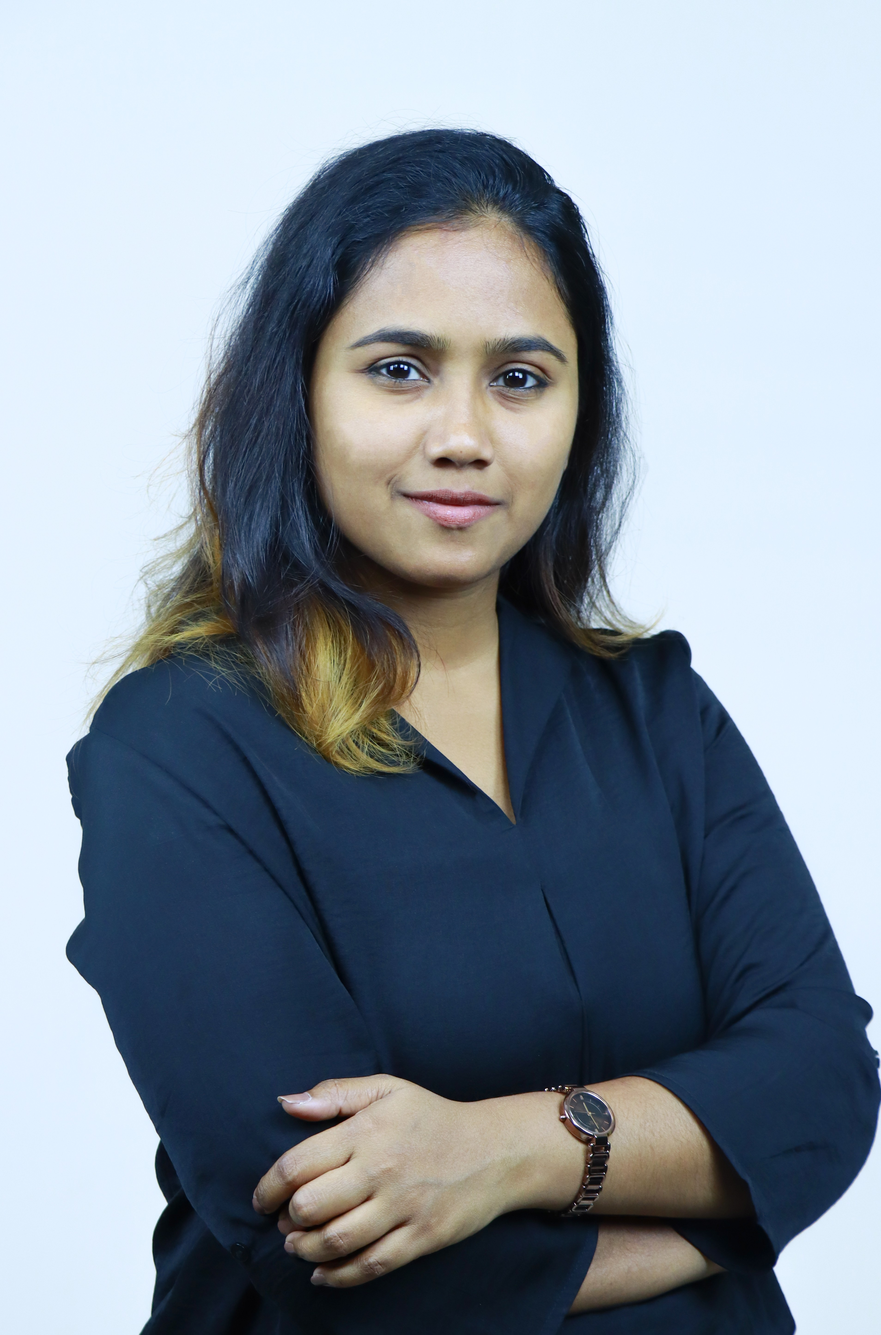
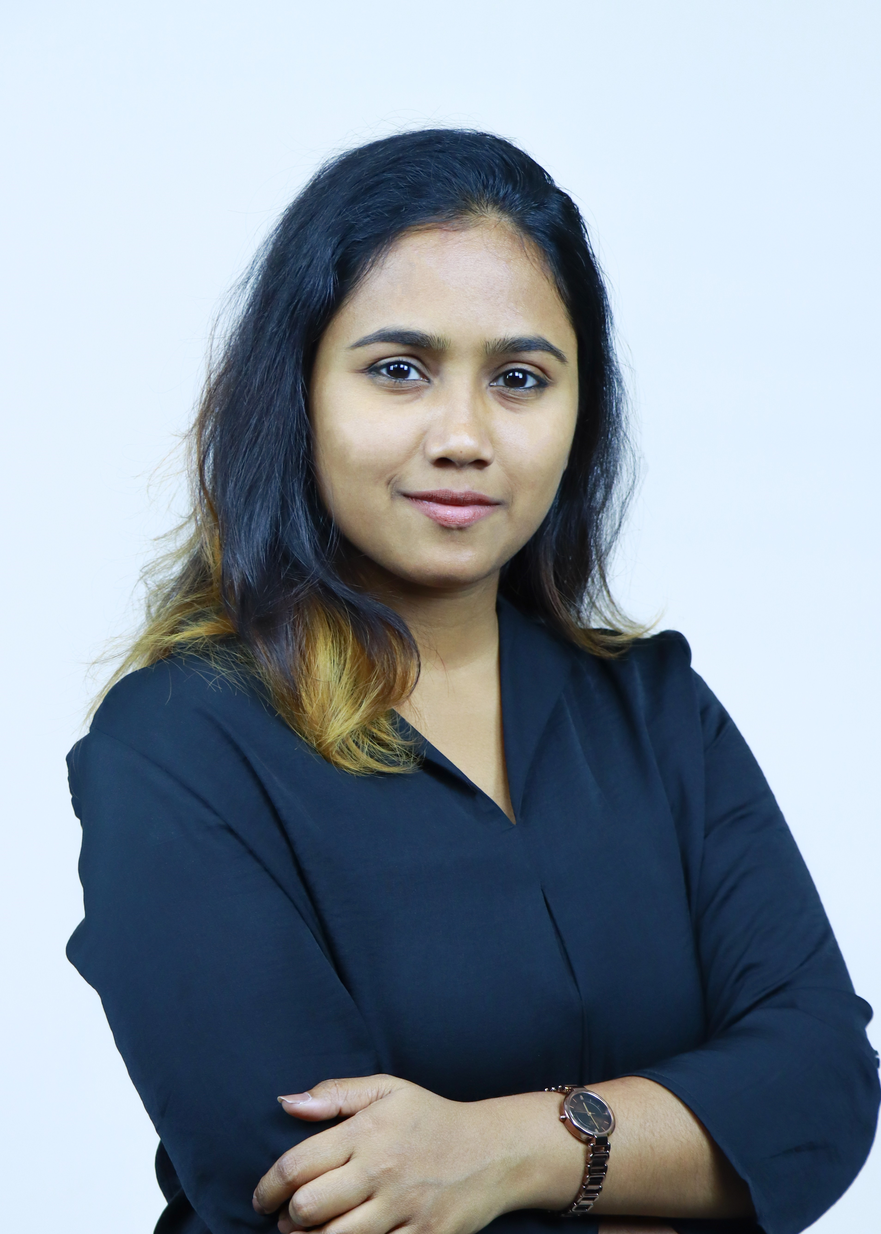
img commit

diff --git a/src/components/Advisors.jsx b/src/components/Advisors.jsx
@@ -1,8 +1,8 @@
 import React from "react";
-import { Briefcase } from "lucide-react";
+import { User } from "lucide-react";
 
 import ShefinImage from "../assets/images/shefin.jpg";
-import hashImage from "../assets/images/hashim.jpg";
+import hashImage from "../assets/images/hashim1.jpg";
 import abhiImage from "../assets/images/abhirami.jpg";
 import jinoImage from "../assets/images/jino.jpg";
 
@@ -15,34 +15,34 @@ const advisors = [
 
 const Advisors = () => {
   return (
-    <div className="py-16 bg-gradient-to-b from-[#061428] to-[#0a1931] text-white">
+    <div className="py-16 bg-white">
       <div className="container mx-auto px-6">
-        {/* Section Title */}
-        <h2 className="text-4xl font-bold text-center mb-8 tracking-wide">
-          Meet Our Advisors
-          <Briefcase className="inline-block w-7 h-7 ml-3" />
+        {/* Section Heading */}
+        <h2 className="text-4xl font-bold text-center text-[#0b081f] mb-12">
+          Our Advisors
+          <User className="inline-block w-8 h-8 ml-2 text-[#05081e]" />
         </h2>
 
         {/* Advisors Grid */}
-        <div className="grid grid-cols-1 sm:grid-cols-2 md:grid-cols-3 lg:grid-cols-4 gap-8">
+        <div className="grid grid-cols-1 sm:grid-cols-2 lg:grid-cols-4 gap-8">
           {advisors.map((advisor, index) => (
             <div
               key={index}
-              className="bg-white/10 backdrop-blur-lg rounded-lg p-6 flex flex-col items-center shadow-md w-full 
-              min-h-[520px] sm:min-h-[550px] md:min-h-[580px] lg:min-h-[600px] transition-all"
+              className="bg-gradient-to-b from-[#061428] to-[#0b1c3a] rounded-lg shadow-lg overflow-hidden p-6 flex flex-col items-center 
+              transition-all hover:shadow-2xl hover:scale-105 w-full h-[480px]"
             >
-              {/* Advisor Image */}
-              <div className="w-full h-88 sm:h-96 md:h-[420px] lg:h-[560px] flex items-center justify-center">
+              {/* Profile Image */}
+              <div className="w-full min-h-[220px] md:min-h-[260px] flex items-center justify-center">
                 <img
                   src={advisor.image}
                   alt={advisor.name}
-                  className="w-full h-full object-cover rounded-lg shadow-lg"
-                  onError={(e) => (e.target.src = "https://via.placeholder.com/300")}
+                  className="w-full h-full object-cover rounded-md shadow-md"
+                  onError={(e) => (e.target.src = "https://via.placeholder.com/200")}
                 />
               </div>
 
               {/* Advisor Details */}
-              <h3 className="text-lg font-semibold mt-6 text-white">{advisor.name}</h3>
+              <h3 className="text-lg font-semibold mt-4 text-white">{advisor.name}</h3>
               <p className="text-sm text-gray-300 text-center mt-2">{advisor.title}</p>
             </div>
           ))}
